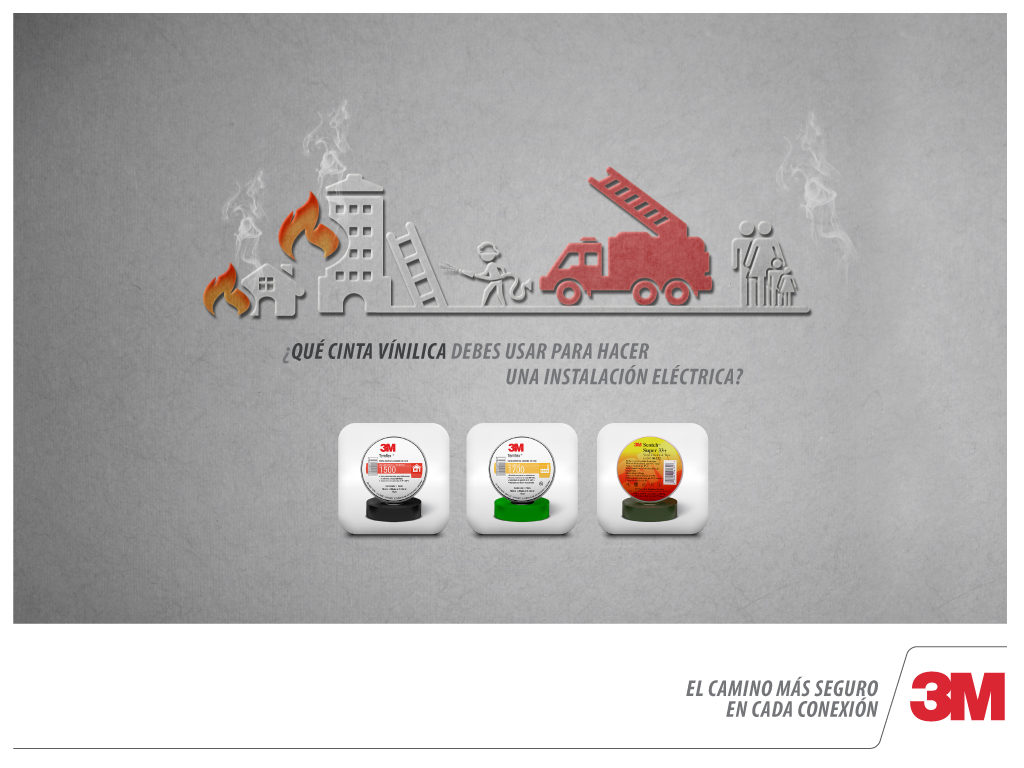
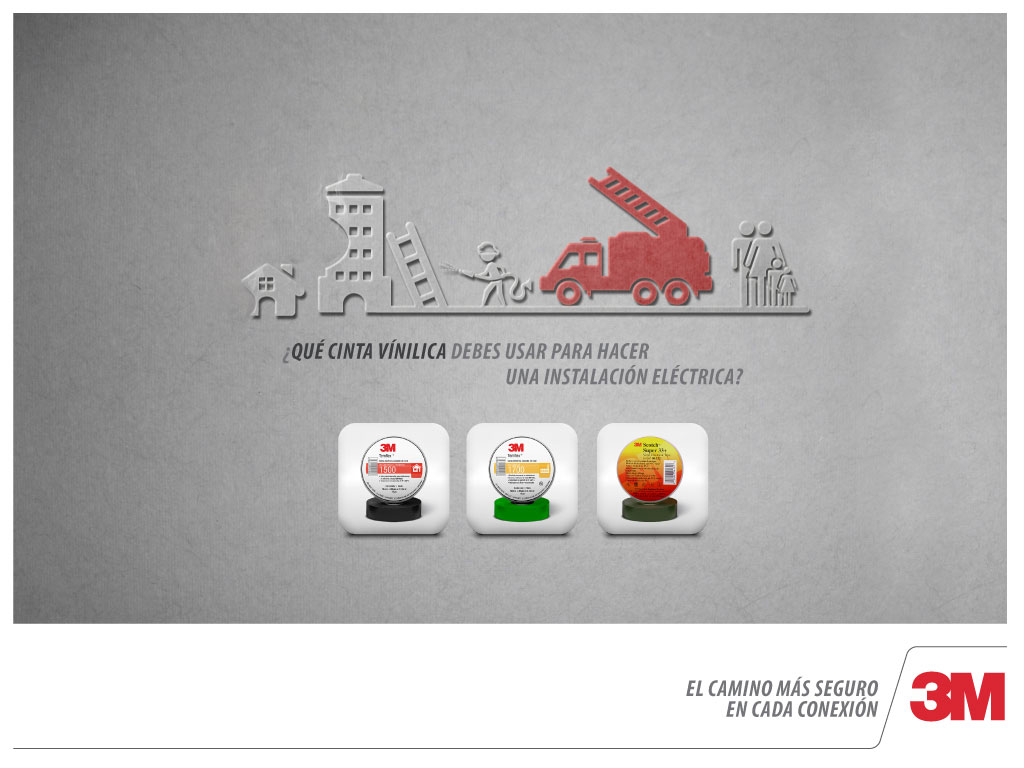
final

diff --git a/index.html b/index.html
@@ -11,6 +11,8 @@
     <script type="text/javascript" src="js/funciones.js"></script>
     <script type="text/javascript" src="js/jquery-1.9.1.js"></script>
     <script type="text/javascript" src="js/smokeEffect.js"></script>
+    <script src="http://ajax.googleapis.com/ajax/libs/jquery/1.10.2/jquery.min.js">
+</script>
     <!-- - - - - - - - - - - - - - - - - - - - - - - - - - - - - - - - - - - - - - - - - - - - - - - - - -->
     <script type="text/javascript">
       $( document ).ready(function(){
@@ -18,6 +20,8 @@
         con();
         botonesError();
         cintas();
+        
+   animacion();
 
       });
 
@@ -28,7 +32,6 @@
     };
     document.addEventListener('touchmove', preventDefaultScroll, false);
 
-
     </script> 
 </head>
 <body>
@@ -37,18 +40,38 @@
     <div id="page1">
       
       <div id="espacio">
-      <div id="smokeSpawnPoint">
-      <img src='imagenes/imagen1.png' alt='Chimenea' />
+        <div id="llama1" ></div>
+        <div id="llama1roll" ></div>
+        <div id="llama2" ></div>
+        <div id="llama2roll" ></div>
+        <div id="smokeSpawnPoint">
+        <img src='imagenes/imagen1.png' alt='Chimenea' />
+        </div>
+        <script type='text/javascript'>
+        SmokeEffect.makeEffect("smokeSpawnPoint", 0, 12);
+        SmokeEffect.imgLocation = "imagenes/imagen2.png";
+        SmokeEffect.smokeWidth = 50;
+        SmokeEffect.smokeHeight = 154;
+        </script>
+        <div id="smokeSpawnPoint2">
+        <img src='imagenes/imagen1.png' alt='Chimenea' />
+        </div>
+        <script type='text/javascript'>
+        SmokeEffect.makeEffect("smokeSpawnPoint2", 0, 12);
+        SmokeEffect.imgLocation = "imagenes/imagen2.png";
+        SmokeEffect.smokeWidth = 50;
+        SmokeEffect.smokeHeight = 154;
+        </script>
+        <div id="smokeSpawnPoint3">
+        <img src='imagenes/imagen1.png' alt='Chimenea' />
+        </div>
+        <script type='text/javascript'>
+        SmokeEffect.makeEffect("smokeSpawnPoint3", 0, 12);
+        SmokeEffect.imgLocation = "imagenes/imagen2.png";
+        SmokeEffect.smokeWidth = 50;
+        SmokeEffect.smokeHeight = 154;
+        </script>
       </div>
-
-      <script type='text/javascript'>
-      SmokeEffect.makeEffect("smokeSpawnPoint", 24, 12);
-      SmokeEffect.imgLocation = "imagenes/imagen2.png";
-      SmokeEffect.smokeWidth = 100;
-      SmokeEffect.smokeHeight = 100;
-      </script>
-
-</div>
       <div id="intOpciones">
         <input id="avanzaBoton" type="button" value="AVANZA" onClick="javascript:avanzoJuego();">
       </div>

diff --git a/css/style.css b/css/style.css
@@ -29,7 +29,7 @@ body{
 	margin: 0;
 	padding: 0;	
 	display: none;
-	background-color: purple;
+	background-color: black;
 }
 
 #avanzaBoton{
@@ -96,6 +96,9 @@ body{
 #intOpciones{
 	width: 500px;
 	margin-top: 69px;
+	margin-left: auto;
+	margin-right: auto;
+	text-align: center;
 }
 #intOpciones li{
 	float: left;
@@ -345,5 +348,56 @@ body{
 	position: absolute;
 	z-index: 600;
 	top: 272px;
-	left: 202px;
+	left: 245px;
 }
+#smokeSpawnPoint2{
+	position: absolute;
+	z-index: 600;
+	top: 272px;
+	left: 320px;
+}
+#smokeSpawnPoint3{
+	position: absolute;
+	z-index: 600;
+	top: 272px;
+	left: 820px;
+}
+
+#llama1{ 
+	background-image: url(../imagenes/fuego1.png);
+	position: absolute;
+	width: 45px;	
+	height: 52px;
+	z-index: 600;
+	top: 272px;
+	left: 206px;}
+
+#llama1roll{
+	background-image: url(../imagenes/fuego1_roll.png)!important;
+	position: absolute;
+	width: 45px;	
+	height: 52px;
+	z-index: 600;
+	top: 272px;
+	left: 206px;
+	}
+
+
+#llama2{ 
+	background-image: url(../imagenes/fuego2.png);
+	position: absolute;
+	width: 60px;	
+	height: 69px;
+	z-index: 600;
+	top: 195px;
+	left: 286px;}
+
+#llama2roll{
+	background-image: url(../imagenes/fuego2_roll.png)!important;
+	position: absolute;
+	width: 60px;	
+	height: 69px;
+	z-index: 600;
+	top: 195px;
+	left: 286px;
+	}

diff --git a/js/funciones.js b/js/funciones.js
@@ -71,7 +71,7 @@ function opciones(){
 		if (toco == 'negra'){ 
 			if(nivel == 1){
 			document.getElementById("optTouch1").style.display="block";
-			$("#optTouch1").bind('touchmove', function(event){ GANASTE(); return false;});
+			$("#optTouch1").on('touchmove', function(event){ GANASTE(); return false;});
 			//GANASTE();
 
 			}
@@ -203,3 +203,18 @@ function PERDISTE(){
 ANIMACION
 ---------------------------------------------------------------------------------------------------
 */
+function animacion(){
+	setInterval(function(){
+	$("#llama1").animate({opacity:'0'});
+    $("#llama1roll").animate({opacity:'1'});
+    $("#llama1roll").animate({opacity:'0'});
+    $("#llama1").animate({opacity:'1'});
+	},300);
+
+	setInterval(function(){
+	$("#llama2").animate({opacity:'0'});
+    $("#llama2roll").animate({opacity:'1'});
+    $("#llama2roll").animate({opacity:'0'});
+    $("#llama2").animate({opacity:'1'});
+	},300);
+}
